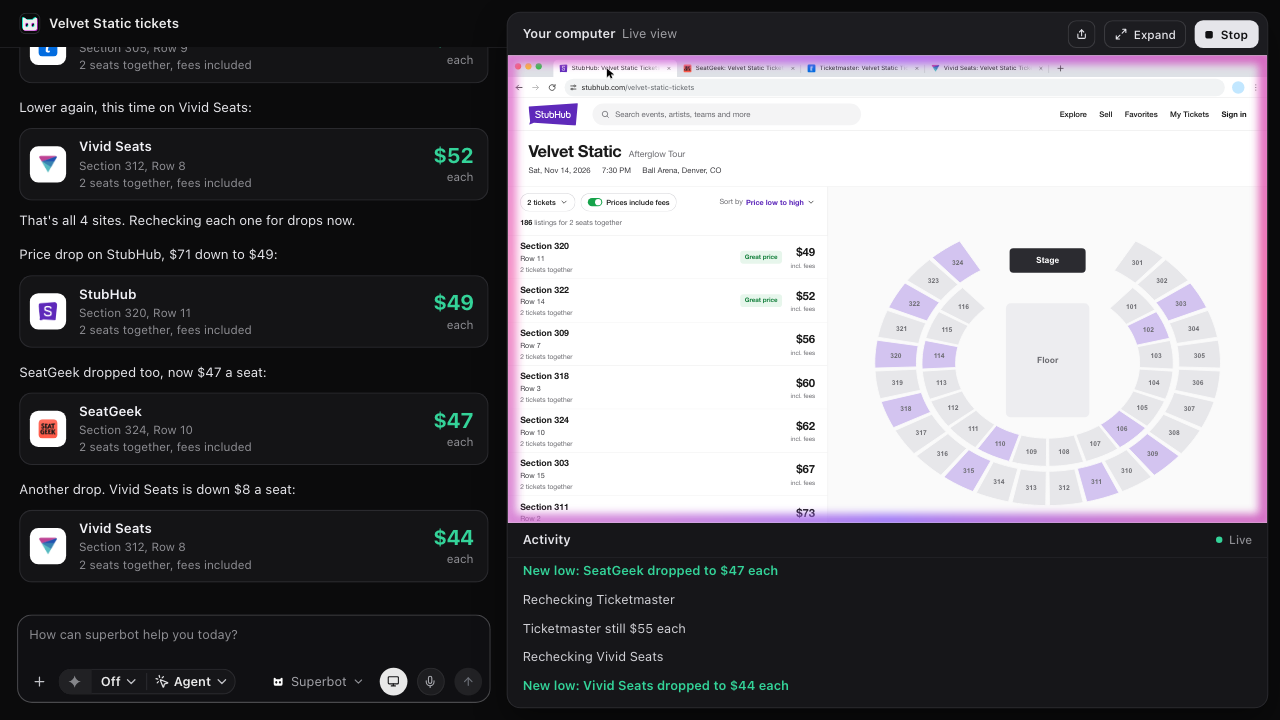
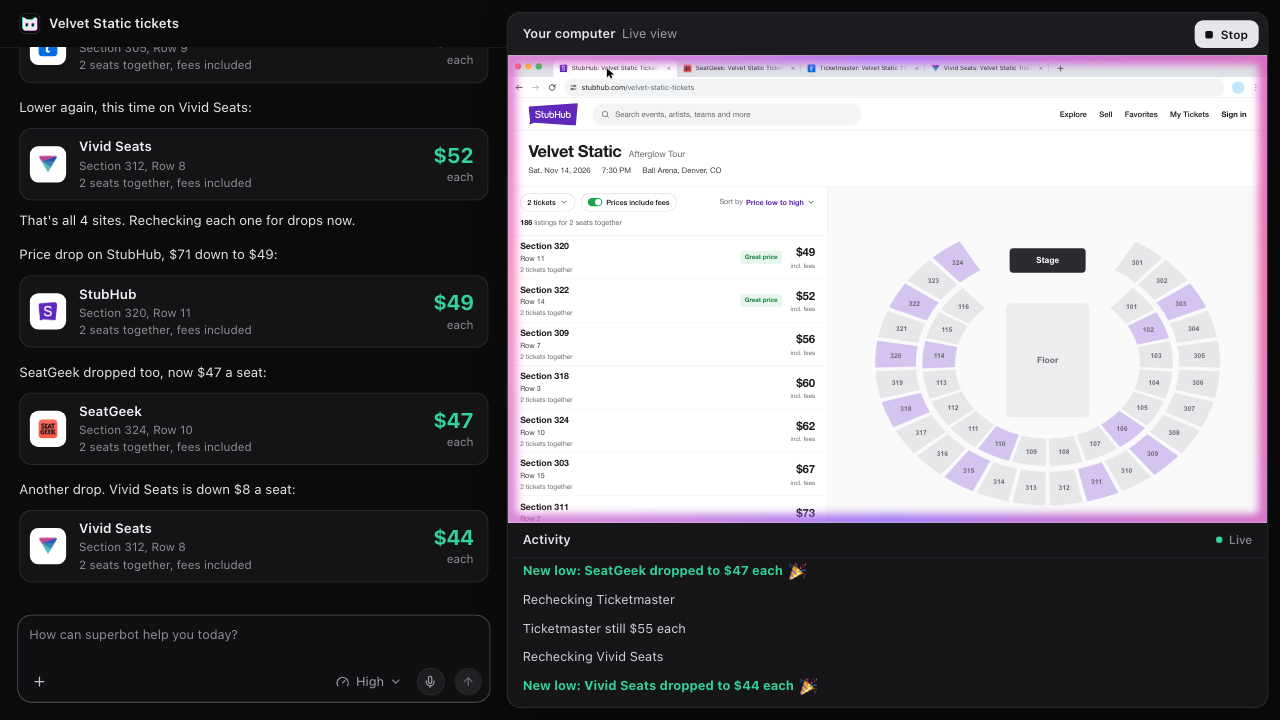
Concert tickets breakthroughs (af4c3c6b): leaner chat and composer, celebrated new lows
Drops the "Taking control" chip and the Superbot name line from the chat, Share and Expand from the
live view's header, and the Off/Agent pill and computer button from the composer; the model picker
becomes an effort picker set to High. superbot's lines stream at 160 characters a second (was 70).
Activity's new-low rows are bold with a party popper after the text. 65 s loop.

diff --git a/animations/superbot-concert-tickets-breakthroughs-af4c3c6b/style.af4c3c6b.css b/animations/superbot-concert-tickets-breakthroughs-af4c3c6b/style.af4c3c6b.css
@@ -1,5 +1,5 @@
 /* superbot finds the cheapest concert tickets: the hub's chat on the left, the computer-control live view docked on the
-   right with the activity tab attached under it. Card, chip, bubble and composer values are the hub's own
+   right with the activity tab attached under it. Card, bubble and composer values are the hub's own
    (gemini-muse-meme-superbot-6fbc38f8: bakery.005f5570.css .bk, chat.css, assets/hub-real.css); the live view and its
    vignette are computer.ba3976b6.css's. No CSS animation or transition: every moving value is written from t. */
 :root {
@@ -36,13 +36,6 @@ svg { flex: none; }
 .cm { margin-bottom: 14px; opacity: 0; }
 .cm-u { display: flex; justify-content: flex-end; }
 .cm-u span { max-width: 82%; padding: 8px 14px; border-radius: 16px; background: #1f1f22; font: 12.5px/17px var(--ui); color: #f2f2f7; }
-.cm-chip { display: inline-flex; align-items: center; gap: 9px; height: 34px; padding: 0 12px 0 6px; border-radius: 999px; background: #141416; box-shadow: inset 0 0 0 1px var(--line); font: 600 12.5px/1 var(--ui); color: #ececec; }
-.cm-chip .sb-tile { width: 22px; height: 22px; border-radius: 999px; }
-.cm-st { position: relative; width: 14px; height: 14px; margin-left: 2px; }
-.cm-spin { position: absolute; inset: 1px; border-radius: 50%; border: 2px solid #3a3a3f; border-top-color: #ececec; }
-.cm-ok { position: absolute; inset: 0; width: 14px; height: 14px; fill: none; stroke: #34d399; stroke-width: 2.6; stroke-linecap: round; stroke-linejoin: round; opacity: 0; }
-.cm-who { display: flex; align-items: center; gap: 7px; margin: 2px 0 7px; font: 600 12.5px/1 var(--ui); color: #ececec; }
-.cm-who .sb-tile { width: 18px; height: 18px; border-radius: 6px; }
 .cm-say { margin: 0; font: 12.5px/18px var(--ui); color: var(--ink); }
 .cm-h { color: transparent; }
 .cm-after { margin-top: 0; }
@@ -56,7 +49,8 @@ svg { flex: none; }
 .cm-card-p b { font: 700 20px/22px var(--ui); color: #34d399; font-variant-numeric: tabular-nums; letter-spacing: -0.01em; }
 .cm-card-p small { font: 11px/14px var(--ui); color: var(--muted); }
 
-/* composer (assets/hub-real.css .rc): the draft types in, the send button lights while there is text */
+/* composer (assets/hub-real.css .rc): +, then the effort picker (High), the mic and send on the right; the draft types
+   in, the send button lights while there is text */
 .composer { flex: none; padding: 4px 16px 16px; }
 .rc { display: flex; flex-direction: column; min-height: 83px; padding: 11px 8.5px 7px 10px; border-radius: 14px; background: #101013; box-shadow: inset 0 0 0 1px #4a4a4d; color: #a4a4aa; font: 12px/1.4 var(--ui); }
 .rc-ph { flex: 1; min-height: 39px; padding: 0 1.5px; overflow: hidden; }
@@ -68,21 +62,10 @@ svg { flex: none; }
 .rc-row svg { fill: none; stroke: currentColor; stroke-width: 2; stroke-linecap: round; stroke-linejoin: round; }
 .rc-plus { margin-left: 3.5px; color: #c4c5ca !important; }
 .rc-plus svg { width: 14px; height: 14px; }
-.rc-super { height: 24px; margin-left: 2px; align-items: stretch !important; overflow: hidden; border-radius: 999px; background: #161619; box-shadow: inset 0 0 0 1px var(--line); font: 600 12px/1 var(--ui); color: #ececec !important; }
-.rc-super > span { display: inline-flex; align-items: center; }
-.rc-sup-cap { justify-content: center; width: 31px; background: #212124; color: #85868a; }
-.rc-spark { width: 14px; height: 14px; fill: currentColor !important; stroke: none !important; }
-.rc-sup-tag { padding: 0 7px 0 9px; }
-.rc-sup-mode { position: relative; padding: 0 6.5px 0 7.5px; }
-.rc-sup-mode::before { content: ""; position: absolute; left: 0; top: 3.75px; bottom: 3.75px; width: 1px; background: #2b2b2f; }
-.rc-chev { width: 14px; height: 14px; margin-left: 3px; color: #c0c1c6; }
-.rc-ptr { width: 14px; height: 14px; margin-right: 4px; color: #e0e0e2; }
-.rc-plat { gap: 6.5px; margin: 0 5px 0 auto; font-size: 12px; color: #a2a2a8 !important; }
-.rc-plat .rc-cat { width: 11.5px; height: 11.5px; }
-.rc-plat .rc-chev { width: 12px; height: 12px; margin-left: -2px; color: #8e8f95; }
-.rc-computer, .rc-mic, .rc-send { width: 26px; height: 26px; border-radius: 50%; }
-.rc-computer { background: #e8e8e8; color: #161618 !important; }
-.rc-computer svg { width: 11.5px; height: 11.5px; stroke-width: 2.3; }
+.rc-effort { gap: 6.5px; margin: 0 5px 0 auto; font-size: 12px; color: #a2a2a8 !important; }
+.rc-effort-ic { width: 12.5px; height: 12.5px; }
+.rc-chev { width: 12px; height: 12px; margin-left: -2px; color: #8e8f95; }
+.rc-mic, .rc-send { width: 26px; height: 26px; border-radius: 50%; }
 .rc-mic { background: #1d1d20; box-shadow: inset 0 0 0 1px #2b2b2e; color: #a9aab0 !important; }
 .rc-mic svg { width: 12.5px; height: 12.5px; }
 .rc-send { background: #222225; color: #6b6f77 !important; }
@@ -97,8 +80,6 @@ svg { flex: none; }
 .bk-title small { margin-left: 6px; font: 400 12px/16px var(--ui); color: #a1a1a6; }
 .bk-btn { display: inline-flex; align-items: center; gap: 6px; height: 26px; padding: 0 10px; border-radius: 8px; white-space: nowrap; font: 500 11px/1 var(--ui); }
 .bk-btn svg { display: block; width: 12px; height: 12px; fill: none; stroke: currentColor; stroke-width: 2; stroke-linecap: round; stroke-linejoin: round; }
-.bk-share { justify-content: center; width: 26px; padding: 0; color: var(--ink); box-shadow: inset 0 0 0 1px #3a3a3e; }
-.bk-expand { color: var(--ink); box-shadow: inset 0 0 0 1px #3a3a3e; }
 .bk-stop { gap: 7px; background: var(--ink); font-weight: 600; color: #111113; }
 .bk-stop i { width: 7px; height: 7px; border-radius: 1.5px; background: #111113; }
 
@@ -117,7 +98,8 @@ svg { flex: none; }
 .ac-list { position: relative; flex: 1; min-height: 0; overflow: hidden; }
 .ac-in { position: absolute; left: 0; right: 0; top: 0; padding: 6px 0; }
 .ac-row { display: flex; align-items: center; height: 27px; padding: 0 14px; white-space: nowrap; font: 12px/1 var(--ui); color: #d1d1d6; opacity: 0; }
-.ac-win { font-weight: 600; color: #34d399; }
+.ac-win { font-weight: 700; color: #34d399; }
+.ac-fx { margin-left: 6px; font: 13px/1 "Apple Color Emoji", "Segoe UI Emoji", "Noto Color Emoji", sans-serif; }
 .ac-empty { position: absolute; left: 14px; top: 12px; margin: 0; font: 12px/16px var(--ui); color: var(--muted); }
 
 /* ---------- Chrome on the shared desktop, in the desktop's own px (computer.ba3976b6.css) ---------- */

diff --git a/animations/superbot-concert-tickets-breakthroughs-af4c3c6b/feed.af4c3c6b.js b/animations/superbot-concert-tickets-breakthroughs-af4c3c6b/feed.af4c3c6b.js
@@ -1,7 +1,7 @@
 // The left pane (the chat with its composer) and the activity tab under the live view, both painted from t. Items are
 // laid out once, at their final size (streamed text keeps its unrevealed rest as transparent text), so a pane scrolls by
 // summing the heights of what has arrived, each weighted by its entrance: the newest line slides up into view. The
-// activity tab is text only: one plain line per step, no icon, a breakthrough's line in the price's green.
+// activity tab is text only: one plain line per step, a breakthrough's line bold in the price's green with a 🎉 after it.
 import { seg, outCubic, caretOn, countAt, lastAt, el, esc, REDUCED, STREAM_CPS } from './lib.af4c3c6b.js';
 import { SITES, fav } from './sites.af4c3c6b.js';
 
@@ -9,35 +9,32 @@ const TYPE_CPS = 40;
 const GAP = 14; // between chat items (.cm margin-bottom)
 const ENTER = 0.32; // an item's fade and rise
 export const SB_MARK = '<span class="sb-tile"><i class="sbm sbm-c"></i><i class="sbm sbm-m"></i><i class="sbm sbm-w"></i></span>';
-const OK = '<svg class="cm-ok" viewBox="0 0 24 24"><path d="M5 12.5l4.5 4.5L19 7.5"/></svg>';
 
-// a run of superbot's messages carries its name once, on the first
-function chatItem(c, who) {
+// superbot's messages are bare text and cards, no name line over them
+function chatItem(c) {
   if (c.kind === 'user') return `<div class="cm cm-u"><span>${esc(c.text)}</span></div>`;
-  if (c.kind === 'chip') return `<div class="cm cm-c"><span class="cm-chip">${SB_MARK}<span>${esc(c.text)}</span><span class="cm-st"><i class="cm-spin"></i>${OK}</span></span></div>`;
   const card = c.card ? `<div class="cm-card">
       <span class="cm-fav"><img src="${fav(SITES[c.card.site].id)}" alt="" width="18" height="18"></span>
       <span class="cm-card-t"><b>${esc(SITES[c.card.site].name)}</b><small>${esc(c.card.seat)}</small><small>2 seats together, fees included</small></span>
       <span class="cm-card-p"><b>$${c.card.price}</b><small>each</small></span>
     </div>` : '';
   const after = c.after ? `<p class="cm-say cm-after"><span class="cm-v"></span><span class="cm-h">${esc(c.after)}</span></p>` : '';
-  const name = who ? `<div class="cm-who">${SB_MARK}Superbot</div>` : '';
-  return `<div class="cm cm-b">${name}<p class="cm-say"><span class="cm-v"></span><span class="cm-h">${esc(c.text)}</span></p>${card}${after}</div>`;
+  return `<div class="cm cm-b"><p class="cm-say"><span class="cm-v"></span><span class="cm-h">${esc(c.text)}</span></p>${card}${after}</div>`;
 }
 
 export function buildFeed(left, act, S) {
   const feedIn = left.querySelector('.ch-in');
-  const items = S.chat.map((c, k) => {
-    const node = el(chatItem(c, k === 0 || S.chat[k - 1].kind !== 'bot'));
+  const items = S.chat.map((c) => {
+    const node = el(chatItem(c));
     feedIn.appendChild(node);
     const say = [...node.querySelectorAll('.cm-say')].map((p) => ({ v: p.firstElementChild, h: p.lastElementChild, text: p.lastElementChild.textContent, shown: -1 }));
     const textEnd = c.at + 0.08 + (c.text.length / STREAM_CPS);
     const cardAt = textEnd + 0.15;
-    return { c, node, say, card: node.querySelector('.cm-card'), spin: node.querySelector('.cm-spin'), ok: node.querySelector('.cm-ok'), textEnd, cardAt, h: 0 };
+    return { c, node, say, card: node.querySelector('.cm-card'), textEnd, cardAt, h: 0 };
   });
   const actIn = act.querySelector('.ac-in');
   const rows = S.acts.map((a) => {
-    const node = el(`<div class="ac-row${a.win ? ' ac-win' : ''}">${esc(a.text)}</div>`);
+    const node = el(a.win ? `<div class="ac-row ac-win">${esc(a.text)}<span class="ac-fx" aria-hidden="true">🎉</span></div>` : `<div class="ac-row">${esc(a.text)}</div>`);
     actIn.appendChild(node);
     return { a, node, h: 0 };
   });
@@ -83,12 +80,7 @@ export function paintFeed(f, S, t) {
     const k = enter(t, it.c.at);
     reveal(it.node, k);
     if (k <= 0) continue;
-    if (it.c.kind === 'chip') {
-      const done = t >= it.c.done;
-      it.spin.style.display = done ? 'none' : '';
-      it.spin.style.transform = `rotate(${((t * 400) % 360).toFixed(1)}deg)`;
-      it.ok.style.opacity = done ? outCubic(seg(t, it.c.done, it.c.done + 0.2)).toFixed(3) : '0';
-    } else if (it.c.kind === 'bot') {
+    if (it.c.kind === 'bot') {
       stream(it.say[0], it.c.at + 0.08, t);
       if (it.card) reveal(it.card, enter(t, it.cardAt));
       if (it.say[1]) stream(it.say[1], it.cardAt + 0.35, t);

diff --git a/animations/superbot-concert-tickets-breakthroughs-af4c3c6b/index.html b/animations/superbot-concert-tickets-breakthroughs-af4c3c6b/index.html
@@ -20,9 +20,7 @@
           <div class="rc-ph"><span class="rc-hint">How can superbot help you today?</span><span class="rc-typed"></span><i class="rc-caret"></i></div>
           <div class="rc-row">
             <span class="rc-plus"><svg viewBox="0 0 24 24"><path d="M5 12h14M12 5v14"/></svg></span>
-            <span class="rc-super"><span class="rc-sup-cap"><svg class="rc-spark" viewBox="0 0 24 24"><path d="M12 2c1 5.2 4.8 9 10 10-5.2 1-9 4.8-10 10-1-5.2-4.8-9-10-10 5.2-1 9-4.8 10-10z"/></svg></span><span class="rc-sup-tag">Off<svg class="rc-chev" viewBox="0 0 24 24"><path d="m6 9 6 6 6-6"/></svg></span><span class="rc-sup-mode"><svg class="rc-ptr" viewBox="0 0 24 24"><path d="M14 4.1 12 6"/><path d="m5.1 8-2.9-.8"/><path d="m6 12-1.9 2"/><path d="M7.2 2.2 8 5.1"/><path d="M9.037 9.69a.498.498 0 0 1 .653-.653l11 4.5a.5.5 0 0 1-.074.949l-4.349 1.041a1 1 0 0 0-.74.739l-1.04 4.35a.5.5 0 0 1-.95.074z"/></svg>Agent<svg class="rc-chev" viewBox="0 0 24 24"><path d="m6 9 6 6 6-6"/></svg></span></span>
-            <span class="rc-plat"><svg class="rc-cat" viewBox="0 0 100 100" aria-hidden="true"><g fill="#fff" stroke="none"><path d="M29 32H71A15 15 0 0 1 86 47V71A15 15 0 0 1 71 86H29A15 15 0 0 1 14 71V47A15 15 0 0 1 29 32Z"/><path d="M14 46V28Q14 20 21 21Q28 24 36 32Z"/><path d="M86 46V28Q86 20 79 21Q72 24 64 32Z"/></g><g fill="#1a1a1c" stroke="none"><ellipse cx="35" cy="58" rx="8" ry="11"/><ellipse cx="65" cy="58" rx="8" ry="11"/></g></svg>Superbot<svg class="rc-chev" viewBox="0 0 24 24"><path d="m6 9 6 6 6-6"/></svg></span>
-            <span class="rc-computer"><svg viewBox="0 0 24 24"><rect width="20" height="14" x="2" y="3" rx="2"/><path d="M8 21h8M12 17v4"/></svg></span>
+            <span class="rc-effort"><svg class="rc-effort-ic" viewBox="0 0 24 24"><path d="m12 14 4-4M3.34 19a10 10 0 1 1 17.32 0"/></svg>High<svg class="rc-chev" viewBox="0 0 24 24"><path d="m6 9 6 6 6-6"/></svg></span>
             <span class="rc-mic"><svg viewBox="0 0 24 24"><path d="M12 2a3 3 0 0 0-3 3v7a3 3 0 0 0 6 0V5a3 3 0 0 0-3-3Z"/><path d="M19 10v2a7 7 0 0 1-14 0v-2"/><path d="M12 19v3"/></svg></span>
             <span class="rc-send"><svg viewBox="0 0 24 24"><path d="m5 12 7-7 7 7"/><path d="M12 19V5"/></svg></span>
           </div>
@@ -33,8 +31,6 @@
       <div class="cc-stack">
         <div class="bk-head">
           <b class="bk-title">Your computer<small>Live view</small></b>
-          <span class="bk-btn bk-share"><svg viewBox="0 0 24 24" aria-hidden="true"><path d="M12 15V4"/><path d="M8 8l4-4 4 4"/><path d="M5 12v6a2 2 0 0 0 2 2h10a2 2 0 0 0 2-2v-6"/></svg></span>
-          <span class="bk-btn bk-expand"><svg viewBox="0 0 24 24" aria-hidden="true"><path d="M15 3h6v6M9 21H3v-6M21 3l-7 7M3 21l7-7"/></svg>Expand</span>
           <span class="bk-btn bk-stop"><i></i>Stop</span>
         </div>
         <div class="cc-view"></div>

diff --git a/animations/superbot-concert-tickets-breakthroughs-af4c3c6b/schedule.af4c3c6b.js b/animations/superbot-concert-tickets-breakthroughs-af4c3c6b/schedule.af4c3c6b.js
@@ -110,9 +110,8 @@ export function buildSchedule() {
 
   // the one ask, and superbot taking control; from here on the user only watches
   say(0.5, ASK);
-  S.chat.push({ at: 2.8, kind: 'chip', text: 'Taking control of your computer', done: 3.5 });
   act(S.control + 0.1, 'Took control of your computer');
-  bot(3.7, "On it. I'll check StubHub, SeatGeek, Ticketmaster and Vivid Seats, compare all-in prices with fees, and post every new low here.");
+  bot(3.0, "On it. I'll check StubHub, SeatGeek, Ticketmaster and Vivid Seats, compare all-in prices with fees, and post every new low here.");
 
   // the first pass: open every site
   const R1 = 4.0;

diff --git a/animations/superbot-concert-tickets-breakthroughs-af4c3c6b/lib.af4c3c6b.js b/animations/superbot-concert-tickets-breakthroughs-af4c3c6b/lib.af4c3c6b.js
@@ -9,7 +9,7 @@ export const inOutCubic = (k) => (k < 0.5 ? 4 * k * k * k : 1 - (-2 * k + 2) ** 
 // a text caret: on for 0.53s, off for 0.53s
 export const caretOn = (t) => Math.floor(Math.max(0, t) / 0.53) % 2 === 0;
 // superbot's replies stream into the chat at this many characters a second
-export const STREAM_CPS = 70;
+export const STREAM_CPS = 160;
 // how many characters of a typed or streamed string are out at t
 export const countAt = (text, start, cps, t) => clamp(Math.floor((t - start) * cps), 0, text.length);
 // the last entry of a time-sorted list whose `at` is at or before t
